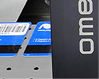
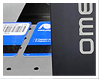
finalizado o site

Changed region(s): [[0.0, 0.0, 1.0, 1.0]]

diff --git a/css/servico.css b/css/servico.css
@@ -30,11 +30,21 @@
 	#middle #bureauMedia { width: 697px; height: 538px; margin-top: 22px; float:left; padding-left: 45px; padding-top: 43px }
 	#middle .menu { height: 82px; width: 602px; margin-top:25px }
 	
-	#middle .menu .thumb { cursor: pointer; width: 95px; height: 75px; border: 3px solid #c3c3c3; float: left; overflow: hidden; margin-left: 1px; opacity: 0.5 }
-	#middle .menu .selected { border: 3px solid white; opacity:1 }
+	#middle .menu .thumb { cursor: pointer; width: 99px; height: 79px; float: left; margin-right: 4px; margin-left:2px }
 	
 	#middle .menu .thumbimage { margin-left: 4px }
-	#middle .menu .thumbvideo { margin-left: 24px }
+	#middle .menu .thumbvideo { margin-left: 18px }
+
+	#imgSmallService01 .thumb { background: url("../img/imgSmallService01.png") no-repeat }
+	#imgSmallService02 .thumb { background: url("../img/imgSmallService02.png") no-repeat }
+	#imgSmallService03 .thumb { background: url("../img/imgSmallService03.png") no-repeat }
+	#imgSmallService04 .thumb { background: url("../img/imgSmallService04.png") no-repeat }
+
+	#imgSmallService01 .selected { background: url("../img/imgSmallServiceSelected01.png") no-repeat }
+	#imgSmallService02 .selected { background: url("../img/imgSmallServiceSelected02.png") no-repeat }
+	#imgSmallService03 .selected { background: url("../img/imgSmallServiceSelected03.png") no-repeat }
+	#imgSmallService04 .selected { background: url("../img/imgSmallServiceSelected04.png") no-repeat }
+
 
 	#middle #bureauBox { width: 697px; height: 129px; float:left }
 		#middle #bureauBox01 { width: 131px; height: 99px; padding-left: 85px; padding-right: 39px; padding-top: 20px; float: left;

diff --git a/servico.html b/servico.html
@@ -141,21 +141,26 @@
               </div>
 
               <div class="menu">
-                
-                <div class="thumb selected" data-container="#service01">
-                  <img src="img/imgSmallService01.png" alt="">
+
+
+                <div id="imgSmallService01">
+                  <div class="thumb selected" data-container="#service01">
+                  </div>
                 </div>
 
-                <div class="thumb thumbimage" data-container="#service02">
-                  <img src="img/imgSmallService02.png" alt="">
+                <div id="imgSmallService02">
+                  <div class="thumb" data-container="#service02">
+                  </div>
                 </div>
 
-                <div class="thumb thumbimage" data-container="#service03">
-                  <img src="img/imgSmallService03.png" alt="">
+                <div id="imgSmallService03" class="thumbimage">
+                  <div class="thumb" data-container="#service03">
+                  </div>
                 </div>
 
-                <div class="thumb thumbvideo" data-container="#service04">
-                  <img src="img/imgPlayerVideo.png" alt="" >
+                <div id="imgSmallService04">
+                  <div class="thumb thumbvideo" data-container="#service04">
+                  </div>
                 </div>
 
               </div>

diff --git a/css/empresa.css b/css/empresa.css
@@ -14,8 +14,17 @@
 	#middle #right #rightUp { height: 460px }
 		#middle .image { width: 567px; height: 392px; float: left }
 		#middle .menu { width: 88px; height: 376px; float: left; margin-left: 16px; padding-top: 16px }
-		#middle .thumb { cursor: pointer; width: 77px; height: 59px; margin-bottom: 7px }
+		
+		#middle .thumb { cursor: pointer; width: 77px; height: 60px; margin-bottom: 7px }
 		#middle .thumbvideos { margin-top: 47px }
+
+		#imgSmallEnterprise01 .thumb { background: url("../img/imgSmallEnterprise01.png") no-repeat }
+		#imgSmallEnterprise02 .thumb { background: url("../img/imgSmallEnterprise02.png") no-repeat }
+		#imgSmallEnterprise03 .thumb { background: url("../img/imgSmallEnterprise03.png") no-repeat }
+
+		#imgSmallEnterprise01 .selected { background: url("../img/imgSmallEnterpriseSelected01.png") no-repeat }
+		#imgSmallEnterprise02 .selected { background: url("../img/imgSmallEnterpriseSelected02.png") no-repeat }
+		#imgSmallEnterprise03 .selected { background: url("../img/imgSmallEnterpriseSelected03.png") no-repeat }
 
 	#middle #right #rightBottom { 
 		height: 414px; font-size: 14px; color: #0093c9; text-align: justify;

diff --git a/empresa.html b/empresa.html
@@ -97,16 +97,19 @@
 
 						<div class="menu">
                 
-			                <div class="thumb selected" data-container="#enterprise01">
-			                  <img src="img/imgSmallEnterprise01.png" alt="">
+                			<div id="imgSmallEnterprise01">
+				                <div class="thumb selected" data-container="#enterprise01">
+				                </div>
 			                </div>
 
-			                <div class="thumb" data-container="#enterprise02">
-			                  <img src="img/imgSmallEnterprise02.png" alt="">
+                			<div id="imgSmallEnterprise02">
+				                <div class="thumb" data-container="#enterprise02">
+				                </div>
 			                </div>
 
-			                <div class="thumb" data-container="#enterprise03">
-			                  <img src="img/imgSmallEnterprise03.png" alt="">
+                			<div id="imgSmallEnterprise03">
+				                <div class="thumb" data-container="#enterprise03">
+				                </div>
 			                </div>
 
 			                <div class="thumb thumbvideos" data-container="#enterprise04">
